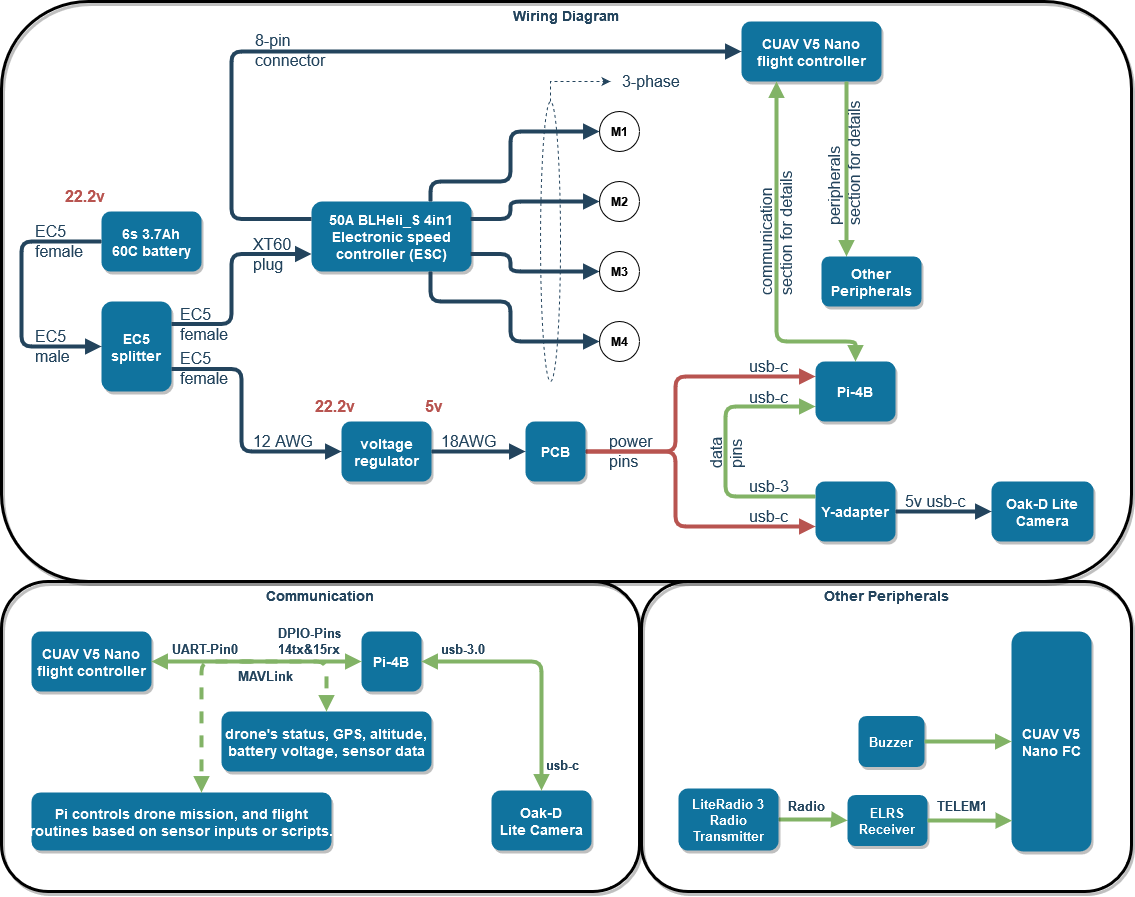
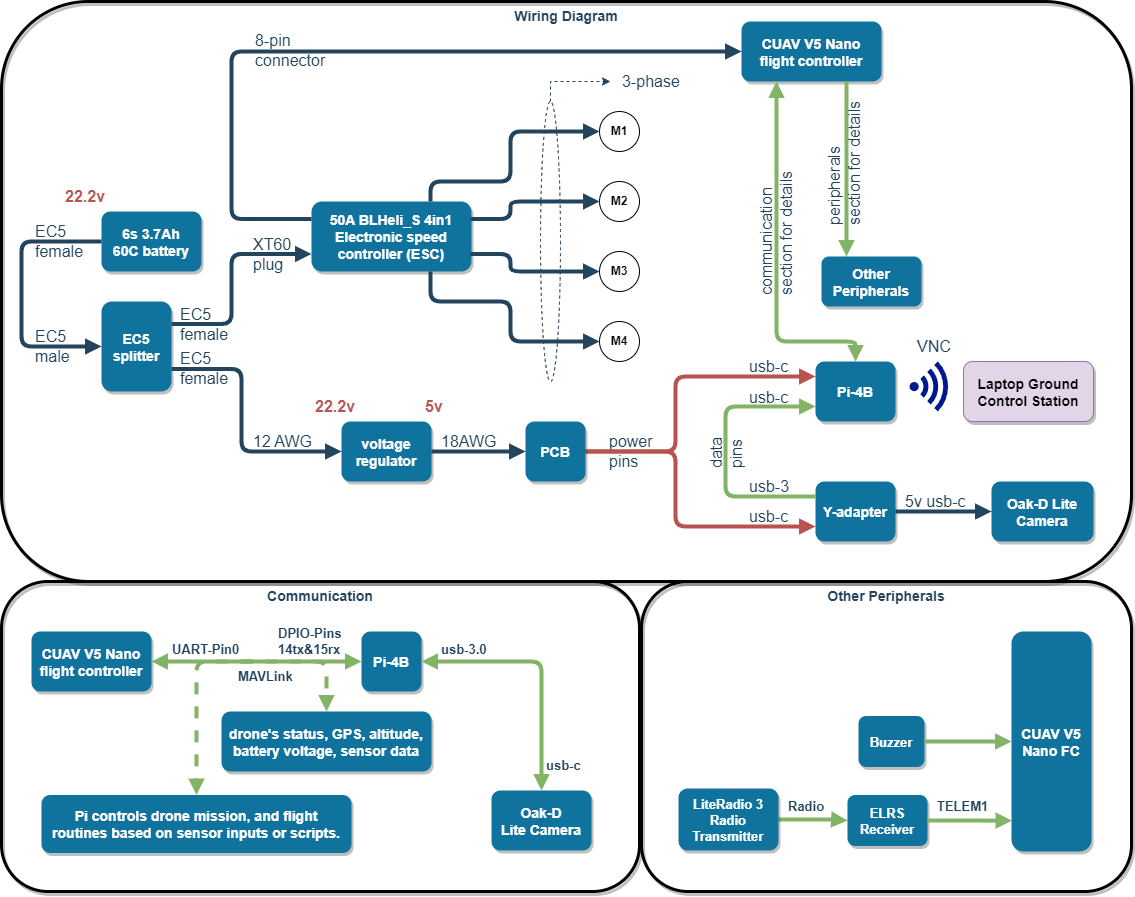
project prep

diff --git a/sub-systems/control-system/autonomous-control/README.md b/sub-systems/control-system/autonomous-control/README.md
@@ -13,19 +13,11 @@
   * On your Raspberry Pi, you'll need BLHeli Passthrough software to communicate with the ESCs. One popular software tool for this purpose is "BLHeliSuite" or "BLHeli Configurator," which you can install on your Raspberry Pi. These tools allow you to configure and tune the settings of your ESCs using BLHeli Passthrough.
   * Launch the BLHeli Passthrough software on your Raspberry Pi. Connect to your flight controller (CUAV Nano) via the UART connection. Once connected, you should be able to access and configure the settings of the ESCs connected to the BLHeli Passthrough-supported motor output pins (9, 10, or 11).
 ## Check Compatibility
-* UART Mapping
-  * SERIAL0 -> USB MAVLINK
-    * MAVLink is a protocol commonly used in the drone industry to exchange telemetry data, commands, and other information between the flight controller and external components.
-    * Telemetry Data Exchange: You can use the MAVLink interface to exchange telemetry data between the CUAV Nano flight controller and your Raspberry Pi. This data includes information about the drone's status, GPS coordinates, altitude, battery voltage, sensor data, and more. This real-time telemetry data is valuable for monitoring and controlling the drone from your Raspberry Pi.
-    * Autonomous Flight: MAVLink allows you to send commands from your Raspberry Pi to the flight controller, enabling autonomous flight. You can program your Raspberry Pi to control the drone's mission, waypoints, and flight behavior based on sensor inputs or custom algorithms.
-    * Ground Control Station (GCS): MAVLink is the communication protocol used by many ground control station software, such as Mission Planner or QGroundControl. You can use your Raspberry Pi as a ground control station to plan, monitor, and control your drone's missions. The GCS software communicates with the flight controller via MAVLink.
-    * Payload Control: If your drone has specialized payloads, such as cameras or sensors, you can use MAVLink to control and receive data from these payloads through your Raspberry Pi.
-    * To utilize the MAVLink pin effectively, you'll need to: Connect the MAVLink pin on the CUAV Nano to a UART (serial) port on your Raspberry Pi. 
-    * Configure the UART port on your Raspberry Pi for serial communication with the appropriate baud rate.
-    Implement MAVLink communication in your Raspberry Pi software using MAVLink libraries or SDKs.
-    * Define and handle the specific MAVLink messages you need for your application, whether it's telemetry data, commands, or mission planning.
+* MAVLink is the communication protocol used by many ground control station software, such as Mission Planner or QGroundControl.
+* [MAVLink-docs](https://mavlink.io/en/)
 
-By integrating MAVLink communication between your CUAV Nano flight controller and Raspberry Pi, you can create a powerful platform for advanced drone operations, including autonomous flight, data collection, and real-time monitoring.
+## Blue OS for Pi
+* [BlueOS](https://github.com/bluerobotics/BlueOS)
 
 ## Considerations
 * Since it is operating on a drone it must be a [battery-powered-pi](https://www.circuitbasics.com/how-to-power-your-raspberry-pi-with-a-lithium-battery/).
